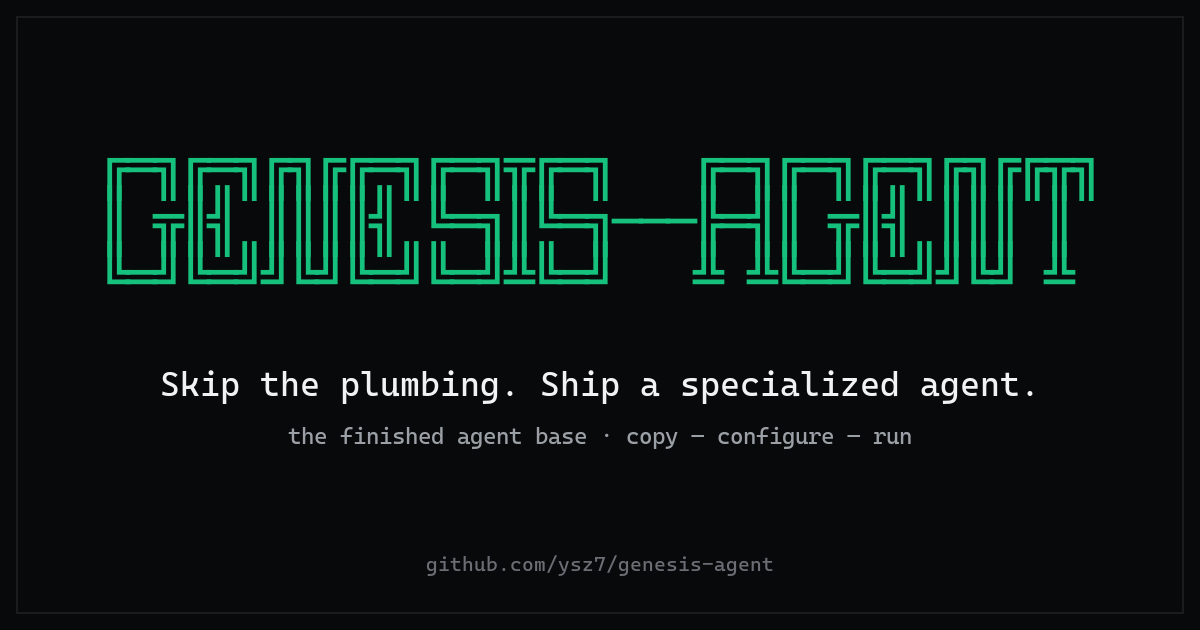
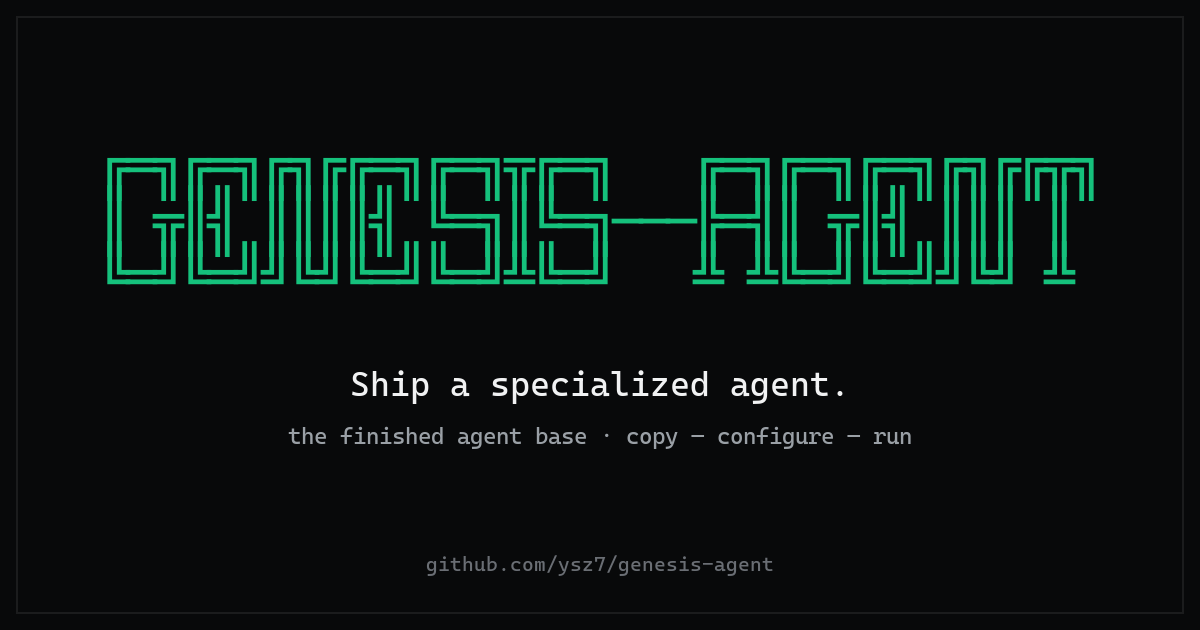
update description

Changed region(s): [[0.1233, 0.573, 0.8633, 0.6635]]

diff --git a/docs/index.html b/docs/index.html
@@ -3,9 +3,9 @@
 <head>
 <meta charset="UTF-8">
 <meta name="viewport" content="width=device-width, initial-scale=1.0">
-<title>genesis-agent — Skip the plumbing. Ship a specialized agent.</title>
+<title>genesis-agent — Ship a specialized agent.</title>
 <meta name="description" content="A lightweight, finished base for AI agents on Pydantic AI. The generic core — memory, planning, delegation, tools, safety, deployment — is already built and kept current with the frontier. Copy, configure, run; you write only what makes your agent yours.">
-<meta property="og:title" content="genesis-agent — skip the plumbing, ship a specialized agent">
+<meta property="og:title" content="genesis-agent — ship a specialized agent">
 <meta property="og:description" content="A lightweight, finished base for AI agents — the generic core is already built and kept current with the frontier. Copy, configure, run; you write only what's yours.">
 <meta property="og:type" content="website">
 <meta property="og:image" content="https://ysz7.github.io/genesis-agent/assets/og.png">
@@ -316,7 +316,7 @@
 <header class="hero" id="top">
   <div class="wrap">
     <span class="eyebrow"><span class="pulse"></span> Open source · built on Pydantic AI</span>
-    <h1>Skip the plumbing.<br><span class="grad">Ship a specialized agent.</span></h1>
+    <h1>Ship a specialized agent.</h1>
     <p class="sub">A lightweight, finished base for AI agents — the generic core is already built and
       kept current with the frontier. Copy, configure, run; you write only what makes your agent
       yours.</p>
@@ -347,7 +347,7 @@
   <div class="wrap">
     <div class="reveal">
       <div class="eyebrow-h">Philosophy</div>
-      <h2 class="h2">Stop rebuilding the same plumbing.</h2>
+      <h2 class="h2">Build your agent, not the infrastructure.</h2>
       <p class="section-sub">Every capable agent needs the same core: model wiring, tool calling,
         retries, memory, guardrails, a console, deployment. Rebuilding it for each project costs
         weeks before any real work. genesis freezes that core — tuned, tested, and kept current as

diff --git a/README.md b/README.md
@@ -2,9 +2,9 @@
 
 <img src="docs/assets/banner.svg" alt="genesis-agent" width="520">
 
-**Skip the plumbing. Ship a specialized agent.**
+**Ship a specialized agent.**
 
-*A lightweight, finished base for AI agents — Copy · Configure · Run → your specialized agent is ready.*
+*A lightweight, finished base for AI agents — copy · configure · run.*
 
 ![CI](https://github.com/ysz7/genesis-agent/actions/workflows/ci.yml/badge.svg)
 ![Release](https://img.shields.io/github/v/tag/ysz7/genesis-agent?label=release&color=15c17c)
@@ -15,9 +15,9 @@
 ---
 
 You want your own AI agent — a trading desk, a research bot, a support
-automation. Building one from scratch isn't just plumbing; it's re-implementing
-the capabilities *every* serious agent needs — model wiring, tool calling,
-memory, planning, delegation, safety, deployment — before any real work begins.
+automation. Building one from scratch means re-implementing the capabilities
+*every* serious agent needs — model wiring, tool calling, memory, planning,
+delegation, safety, deployment — before any real work begins.
 
 **genesis-agent is that foundation, already built — and kept current with the
 frontier.** A clean, lightweight base for *any* vertical agent: copy the folder,